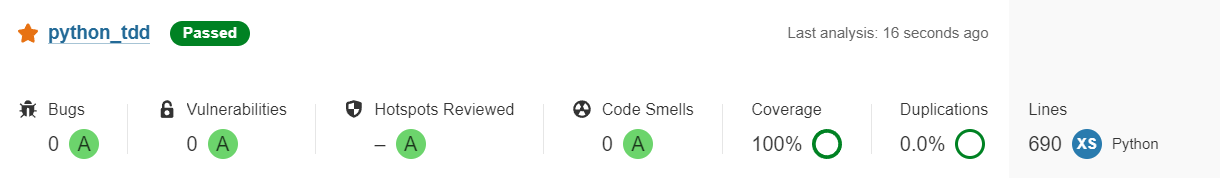
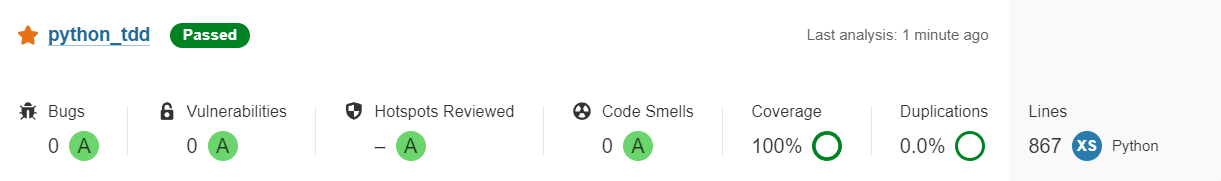
updated reports

diff --git a/src/features/product/tests/test_product_crud_usecase.py b/src/features/product/tests/test_product_crud_usecase.py
@@ -279,6 +279,10 @@ def test_create_product_sql_service_create():
     mock.create.assert_called_once()
 
 
+# error message constant
+DUMMY_ERROR_MESSAGE = "Some database exception"
+
+
 def test_create_product_sql_exception():
     """create_product() method should raise SQLException if create() method
     of 'sql_service' raises SQLException."""
@@ -289,7 +293,7 @@ def test_create_product_sql_exception():
     product_crud_usecase = ProductCrudUsecase(mock)
 
     # create a dummy exception
-    dummy_exception = SQLException("Some database exception")
+    dummy_exception = SQLException(DUMMY_ERROR_MESSAGE)
 
     # raise exception when create method called
     mock.create.side_effect = dummy_exception
@@ -407,7 +411,7 @@ def test_get_product_sql_exception():
     product_crud_usecase = ProductCrudUsecase(mock)
 
     # create a dummy exception
-    dummy_exception = SQLException("Some database exception")
+    dummy_exception = SQLException(DUMMY_ERROR_MESSAGE)
 
     # raise exception when read_single method called
     mock.read_single.side_effect = dummy_exception
@@ -509,7 +513,7 @@ def test_get_products_sql_exception():
     product_crud_usecase = ProductCrudUsecase(mock)
 
     # create a dummy exception
-    dummy_exception = SQLException("Some database exception")
+    dummy_exception = SQLException(DUMMY_ERROR_MESSAGE)
 
     # raise exception when read_multiple method called
     mock.read_multiple.side_effect = dummy_exception
@@ -613,7 +617,7 @@ def test_update_product_sql_exception():
     product_crud_usecase = ProductCrudUsecase(mock)
 
     # create a dummy exception
-    dummy_exception = SQLException("Some database exception")
+    dummy_exception = SQLException(DUMMY_ERROR_MESSAGE)
 
     # raise exception when update method called
     mock.update.side_effect = dummy_exception
@@ -695,7 +699,7 @@ def test_delete_product_sql_exception():
     product_crud_usecase = ProductCrudUsecase(mock)
 
     # create a dummy exception
-    dummy_exception = SQLException("Some database exception")
+    dummy_exception = SQLException(DUMMY_ERROR_MESSAGE)
 
     # raise exception when delete method called
     mock.delete.side_effect = dummy_exception

diff --git a/src/features/product/usecases/product_crud_usecase.py b/src/features/product/usecases/product_crud_usecase.py
@@ -6,6 +6,9 @@ from core.services.sql_service.sql_service import SQLService
 class ProductCrudUsecase:
     """Product usecase for database CRUD operations."""
 
+    # constant error message
+    QUERY_DATA_INVALID_ERROR = "'query_data' should be a valid dict."
+
     def __init__(self, sql_service: SQLService[Product]) -> None:
         # validate sql_service
         if not isinstance(sql_service, SQLService):
@@ -52,7 +55,7 @@ class ProductCrudUsecase:
         # verify query_data type
         if not isinstance(query_data, dict):
             # raise type error
-            raise TypeError("'query_data' should be a valid dict.")
+            raise TypeError(self.QUERY_DATA_INVALID_ERROR)
 
         # read & return from sql service
         return self.__sql_service.read_single(query_data)
@@ -74,7 +77,7 @@ class ProductCrudUsecase:
         # verify query_data type
         if not isinstance(query_data, dict):
             # raise type error
-            raise TypeError("'query_data' should be a valid dict.")
+            raise TypeError(self.QUERY_DATA_INVALID_ERROR)
 
         # read & return from sql service
         return self.__sql_service.read_multiple(query_data)
@@ -118,7 +121,7 @@ class ProductCrudUsecase:
         # verify query_data type
         if not isinstance(query_data, dict):
             # raise type error
-            raise TypeError("'query_data' should be a valid dict.")
+            raise TypeError(self.QUERY_DATA_INVALID_ERROR)
 
         # delete & return from sql service
         return self.__sql_service.delete(query_data)

diff --git a/README.md b/README.md
@@ -8,18 +8,17 @@
 ======================================= test session starts =======================================
 Python 3.12.1, pytest-7.4.4, pluggy-1.3.0
 plugins: cov-4.1.0
-collected 75 items
+collected 97 items
 
-core\services\sql_service\tests\test_mysql_service.py .........................              [ 33%]
-core\services\sql_service\tests\test_sql_exception.py ..                                     [ 36%]
-core\services\sql_service\tests\test_sql_service.py ........                                 [ 46%]
-core\tests\test_dependency_injection.py .                                                    [ 48%]
-features\product\tests\test_product_crud_usecase.py .........                                [ 60%]
-features\product\tests\test_product_model.py ..............                                  [ 78%]
+core\services\sql_service\tests\test_mysql_service.py .........................              [ 25%]
+core\services\sql_service\tests\test_sql_exception.py ..                                     [ 27%] 
+core\services\sql_service\tests\test_sql_service.py ........                                 [ 36%]
+core\tests\test_dependency_injection.py .                                                    [ 37%] 
+features\product\tests\test_product_crud_usecase.py ...............................          [ 69%]
+features\product\tests\test_product_model.py ..............                                  [ 83%]
 features\product\tests\test_product_serialization.py ................                        [100%]
 
-======================================= 75 passed in 0.38s ========================================
-
+======================================= 97 passed in 0.65s ========================================
 ```
 
 <br>
@@ -47,12 +46,12 @@ features\product\__init__.py                                0      0   100%
 features\product\models\__init__.py                         0      0   100%
 features\product\models\product.py                         26      0   100%
 features\product\tests\__init__.py                          0      0   100%
-features\product\tests\test_product_crud_usecase.py        60      0   100%
+features\product\tests\test_product_crud_usecase.py       216      0   100%
 features\product\tests\test_product_model.py               53      0   100%
 features\product\tests\test_product_serialization.py       85      0   100%
-features\product\usecases\product_crud_usecase.py          11      0   100%
+features\product\usecases\product_crud_usecase.py          29      0   100%
 ---------------------------------------------------------------------------
-TOTAL                                                     550      0   100%
+TOTAL                                                     724      0   100%
 ```
 
 <br>
